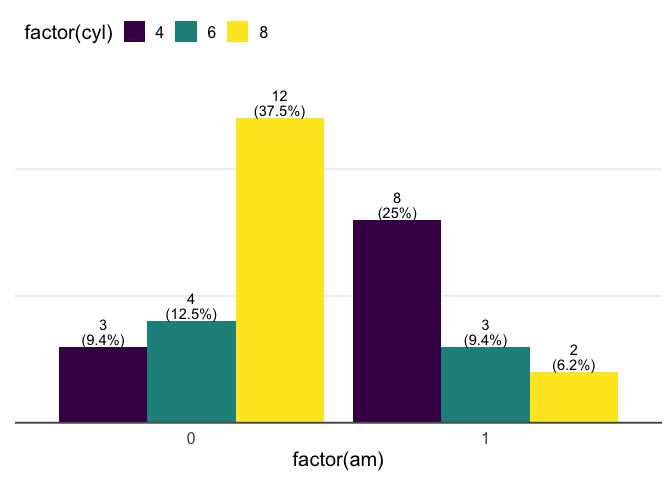
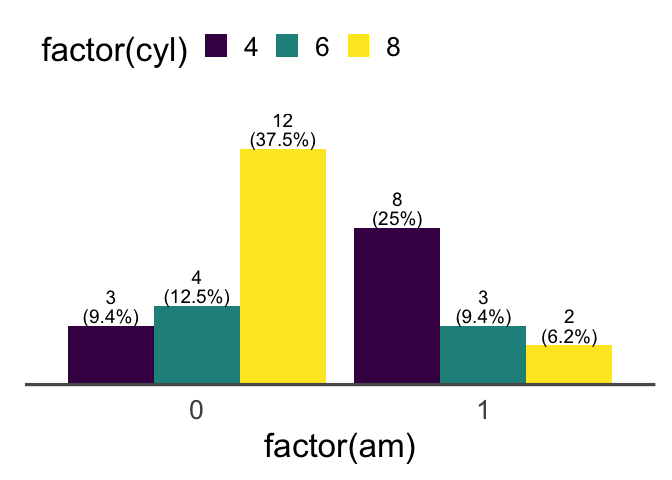
using  %+replace% and changing some default sizing

Changed region(s): [[0.0312, 0.1875, 1.0, 0.9688], [0.0312, 0.0312, 0.5938, 0.1562], [0.5312, 0.4062, 0.6562, 0.5]]

diff --git a/README.md b/README.md
@@ -49,7 +49,7 @@ ggplot(mtcars) +
   geom_barlab_count()
 ```
 
-<img src="man/figures/README-unnamed-chunk-1-1.png" width="50%" />
+<img src="man/figures/README-unnamed-chunk-1-1.png" width="70%" />
 
 ``` r
 
@@ -59,7 +59,7 @@ ggplot(mtcars) +
   geom_barlab_count_percent()
 ```
 
-<img src="man/figures/README-unnamed-chunk-1-2.png" width="50%" />
+<img src="man/figures/README-unnamed-chunk-1-2.png" width="70%" />
 
 ``` r
 
@@ -67,7 +67,7 @@ last_plot() +
   ggbarlabs:::defaults_ggbarlabs()
 ```
 
-<img src="man/figures/README-unnamed-chunk-1-3.png" width="50%" />
+<img src="man/figures/README-unnamed-chunk-1-3.png" width="70%" />
 
 # How we got here … Composing functions to this end
 
@@ -83,7 +83,7 @@ ggplot(mtcars) +
   geom_bar(position = "dodge") 
 ```
 
-<img src="man/figures/README-unnamed-chunk-2-1.png" width="50%" />
+<img src="man/figures/README-unnamed-chunk-2-1.png" width="70%" />
 
 ``` r
 
@@ -128,7 +128,7 @@ p +
             vjust = -.7)
 ```
 
-<img src="man/figures/README-unnamed-chunk-6-1.png" width="50%" />
+<img src="man/figures/README-unnamed-chunk-6-1.png" width="70%" />
 
 ``` r
 
@@ -138,7 +138,7 @@ p +
             vjust = -.7)
 ```
 
-<img src="man/figures/README-unnamed-chunk-6-2.png" width="50%" />
+<img src="man/figures/README-unnamed-chunk-6-2.png" width="70%" />
 
 ``` r
 
@@ -150,7 +150,7 @@ p +
             vjust = -.5, lineheight = .8)
 ```
 
-<img src="man/figures/README-unnamed-chunk-6-3.png" width="50%" />
+<img src="man/figures/README-unnamed-chunk-6-3.png" width="70%" />
 
 ``` r
 
@@ -159,7 +159,7 @@ last_plot() +
   facet_grid(~cyl)
 ```
 
-<img src="man/figures/README-unnamed-chunk-6-4.png" width="50%" />
+<img src="man/figures/README-unnamed-chunk-6-4.png" width="70%" />
 
 ``` r
 
@@ -174,7 +174,7 @@ p +
 #> Warning: Width not defined. Set with `position_dodge2(width = ...)`
 ```
 
-<img src="man/figures/README-unnamed-chunk-6-5.png" width="50%" />
+<img src="man/figures/README-unnamed-chunk-6-5.png" width="70%" />
 
 ``` r
 
@@ -233,13 +233,13 @@ the range (0, 1), but it’s not recommended.’
 #' @export
 #'
 #' @examples
-geom_barlab_count <- function(vjust = -0.15, position =
+geom_barlab_count <- function(vjust = -0.15, size = 5, position =
                               ggplot2::position_dodge2(width = .9,
                                                        preserve = "single"), ...){
 
   ggplot2::stat_count(geom = "text",
                       ggplot2::aes(label = ggplot2::after_stat(count)),
-                      vjust = vjust,
+                      vjust = vjust, size = size,
                       position = position,
                       ...
   )
@@ -259,7 +259,7 @@ ggplot(mtcars) +
    geom_barlab_count()
 ```
 
-<img src="man/figures/README-unnamed-chunk-7-1.png" width="50%" />
+<img src="man/figures/README-unnamed-chunk-7-1.png" width="70%" />
 
 ``` r
 
@@ -267,7 +267,7 @@ last_plot() +
   aes(fill = factor(am))
 ```
 
-<img src="man/figures/README-unnamed-chunk-7-2.png" width="50%" />
+<img src="man/figures/README-unnamed-chunk-7-2.png" width="70%" />
 
 ### `geom_barlab_count_percent`
 
@@ -287,7 +287,7 @@ would allow greater customizability in terms of defining denominator
 #' @export
 #'
 #' @examples
-geom_barlab_count_percent <- function(vjust = -0.1,
+geom_barlab_count_percent <- function(vjust = -0.1, size = 5,
                                     lineheight = .85,
                                     position = ggplot2::position_dodge2(width = .9,
                                                                preserve = "single"), ...){
@@ -301,7 +301,7 @@ geom_barlab_count_percent <- function(vjust = -0.1,
                                            ggplot2::after_stat(PANEL),
                                            sum)[ggplot2::after_stat(PANEL)],
                                   1), "%)" )),
-             vjust = vjust,
+             vjust = vjust, size = size,
              lineheight = lineheight,
              position = position,
              ...
@@ -319,7 +319,7 @@ ggplot(mtcars) +
     geom_barlab_count_percent()
 ```
 
-<img src="man/figures/README-unnamed-chunk-8-1.png" width="50%" />
+<img src="man/figures/README-unnamed-chunk-8-1.png" width="70%" />
 
 ``` r
 
@@ -327,7 +327,7 @@ last_plot() +
     aes(fill = factor(am))
 ```
 
-<img src="man/figures/README-unnamed-chunk-8-2.png" width="50%" />
+<img src="man/figures/README-unnamed-chunk-8-2.png" width="70%" />
 
 ## Complementary functionality `ggbarlabs()`
 
@@ -360,7 +360,7 @@ ggplot(mtcars) +
 #> ggplot2::after_stat(count)), : Ignoring unknown parameters: `nudge_y`
 ```
 
-<img src="man/figures/README-unnamed-chunk-9-1.png" width="50%" />
+<img src="man/figures/README-unnamed-chunk-9-1.png" width="70%" />
 
 ## Build `defaults_ggbarlabs` and `ggbarlabs()`
 
@@ -376,10 +376,9 @@ changing default color pallets?
 #' @export
 #'
 #' @examples
-theme_barlabs <- function(){
+theme_barlabs <- function(base_size = 25, ...){
   
-  list(
-  theme_classic(base_size = 15) ,
+  theme_classic(base_size = base_size, ...)  %+replace%
   theme(axis.line.y = element_blank(),
         axis.text.y.right = element_blank(),
         axis.ticks.y = element_blank(),
@@ -391,7 +390,9 @@ theme_barlabs <- function(){
         axis.ticks = element_blank(),
         axis.line.x = element_line(colour = "gray35"),
         legend.position = "top",
-        legend.justification = 0))
+        legend.justification = 0, 
+        complete = TRUE
+        )
 }
 ```
 
@@ -461,7 +462,7 @@ ggplot(mtcars) +
   scale_fill_barlabs()
 ```
 
-<img src="man/figures/README-unnamed-chunk-10-1.png" width="50%" />
+<img src="man/figures/README-unnamed-chunk-10-1.png" width="70%" />
 
 ``` r
 
@@ -472,7 +473,7 @@ ggplot(mtcars) +
   defaults_barlabs()  # will be not exported?
 ```
 
-<img src="man/figures/README-unnamed-chunk-10-2.png" width="50%" />
+<img src="man/figures/README-unnamed-chunk-10-2.png" width="70%" />
 
 ``` r
 
@@ -483,7 +484,7 @@ ggbarlabs(mtcars) +
   geom_barlab_count_percent()
 ```
 
-<img src="man/figures/README-unnamed-chunk-10-3.png" width="50%" />
+<img src="man/figures/README-unnamed-chunk-10-3.png" width="70%" />
 
 ``` r
 
@@ -495,7 +496,7 @@ ggplot(mtcars) +
                     color = "grey98")
 ```
 
-<img src="man/figures/README-unnamed-chunk-10-4.png" width="50%" />
+<img src="man/figures/README-unnamed-chunk-10-4.png" width="70%" />
 
 ## Reflect. Acknowledge short comings, doubts, other good and pertanent work
 
